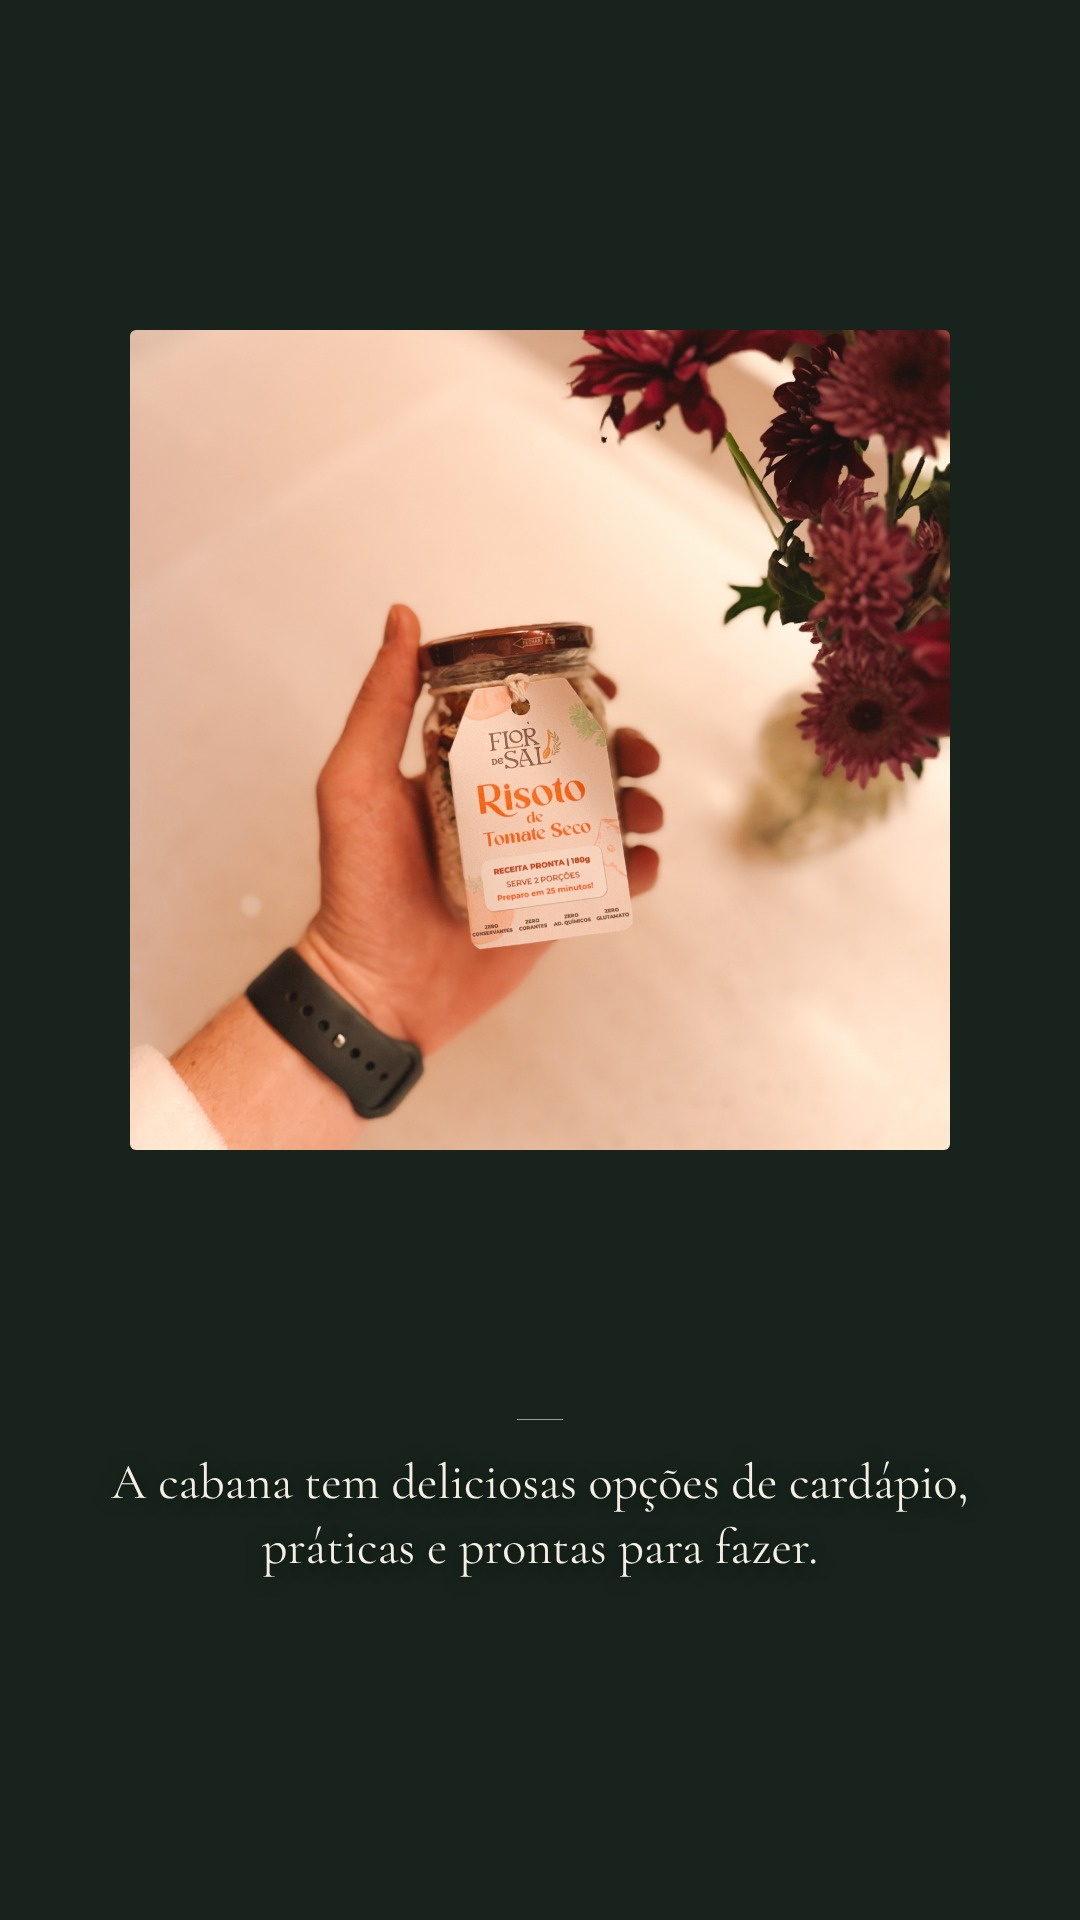
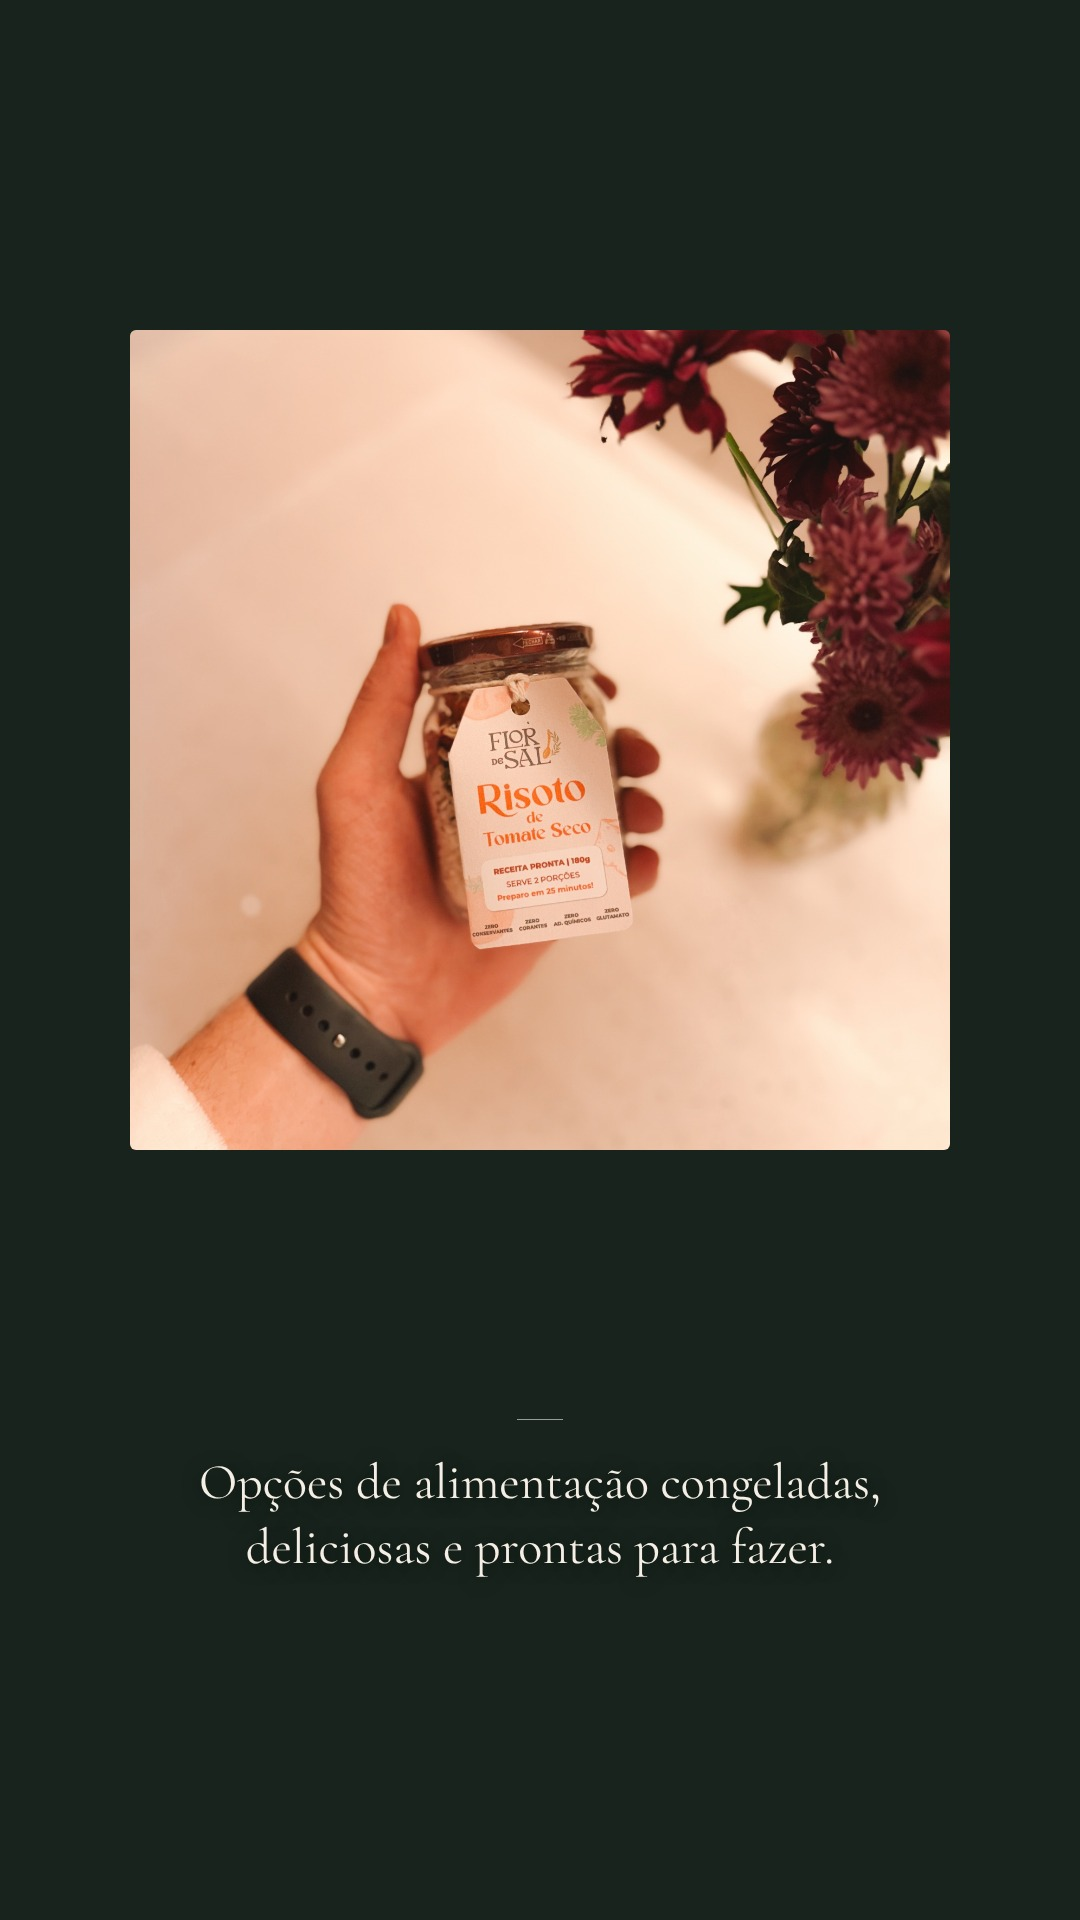
Ajusta texto do story de cardápio
Claude-Session: https://claude.ai/code/session_01DGaSmMXhRVQXAQK6gDFrFo

Changed region(s): [[0.1528, 0.75, 0.8861, 0.8438]]

diff --git a/stories-cabana/html/story-07.html b/stories-cabana/html/story-07.html
@@ -15,5 +15,5 @@ body { background:#17231c; }
 .grid { position:absolute; top:330px; left:0; right:0; display:flex; justify-content:center; gap:28px; }
 </style></head><body>
 <div class="grid"><img src="file:///home/user/Jean-Radeski-/stories-cabana/fotos/risoto.jpg" style="width:820px;height:820px;object-fit:cover;border-radius:6px"></div>
-<div class="box"><div class="line"></div><div class="txt">A cabana tem deliciosas opções de cardápio,<br>práticas e prontas para fazer.</div></div>
+<div class="box"><div class="line"></div><div class="txt">Opções de alimentação congeladas,<br>deliciosas e prontas para fazer.</div></div>
 </body></html>

diff --git a/stories-cabana/gerar.py b/stories-cabana/gerar.py
@@ -16,7 +16,7 @@ STORIES = [
     ("hidro.jpg", "center 30%", "Hidromassagem<br>com vista para a mata.", ""),
     ("cozinha.jpg", "center", "Cozinha completa para você<br>não se preocupar com nada.", ""),
     ("adega.jpg", "center 45%", "Adega completa.", ""),
-    ("cardapio", "", "A cabana tem deliciosas opções de cardápio,<br>práticas e prontas para fazer.", ""),
+    ("cardapio", "", "Opções de alimentação congeladas,<br>deliciosas e prontas para fazer.", ""),
     ("lareira.jpg", "center 40%", "Detalhes que encantam.", ""),
     ("spa-mata.jpg", "center 55%", "Um spa com ofurô e cama suspensa,<br>imerso na mata, ao lado do rio<br>e ao som das quedas d'água.", ""),
     ("banheira.jpg", "center 40%", "Ofurô e cama suspensa,<br>entre samambaias.", "Tour completo no próximo story"),
